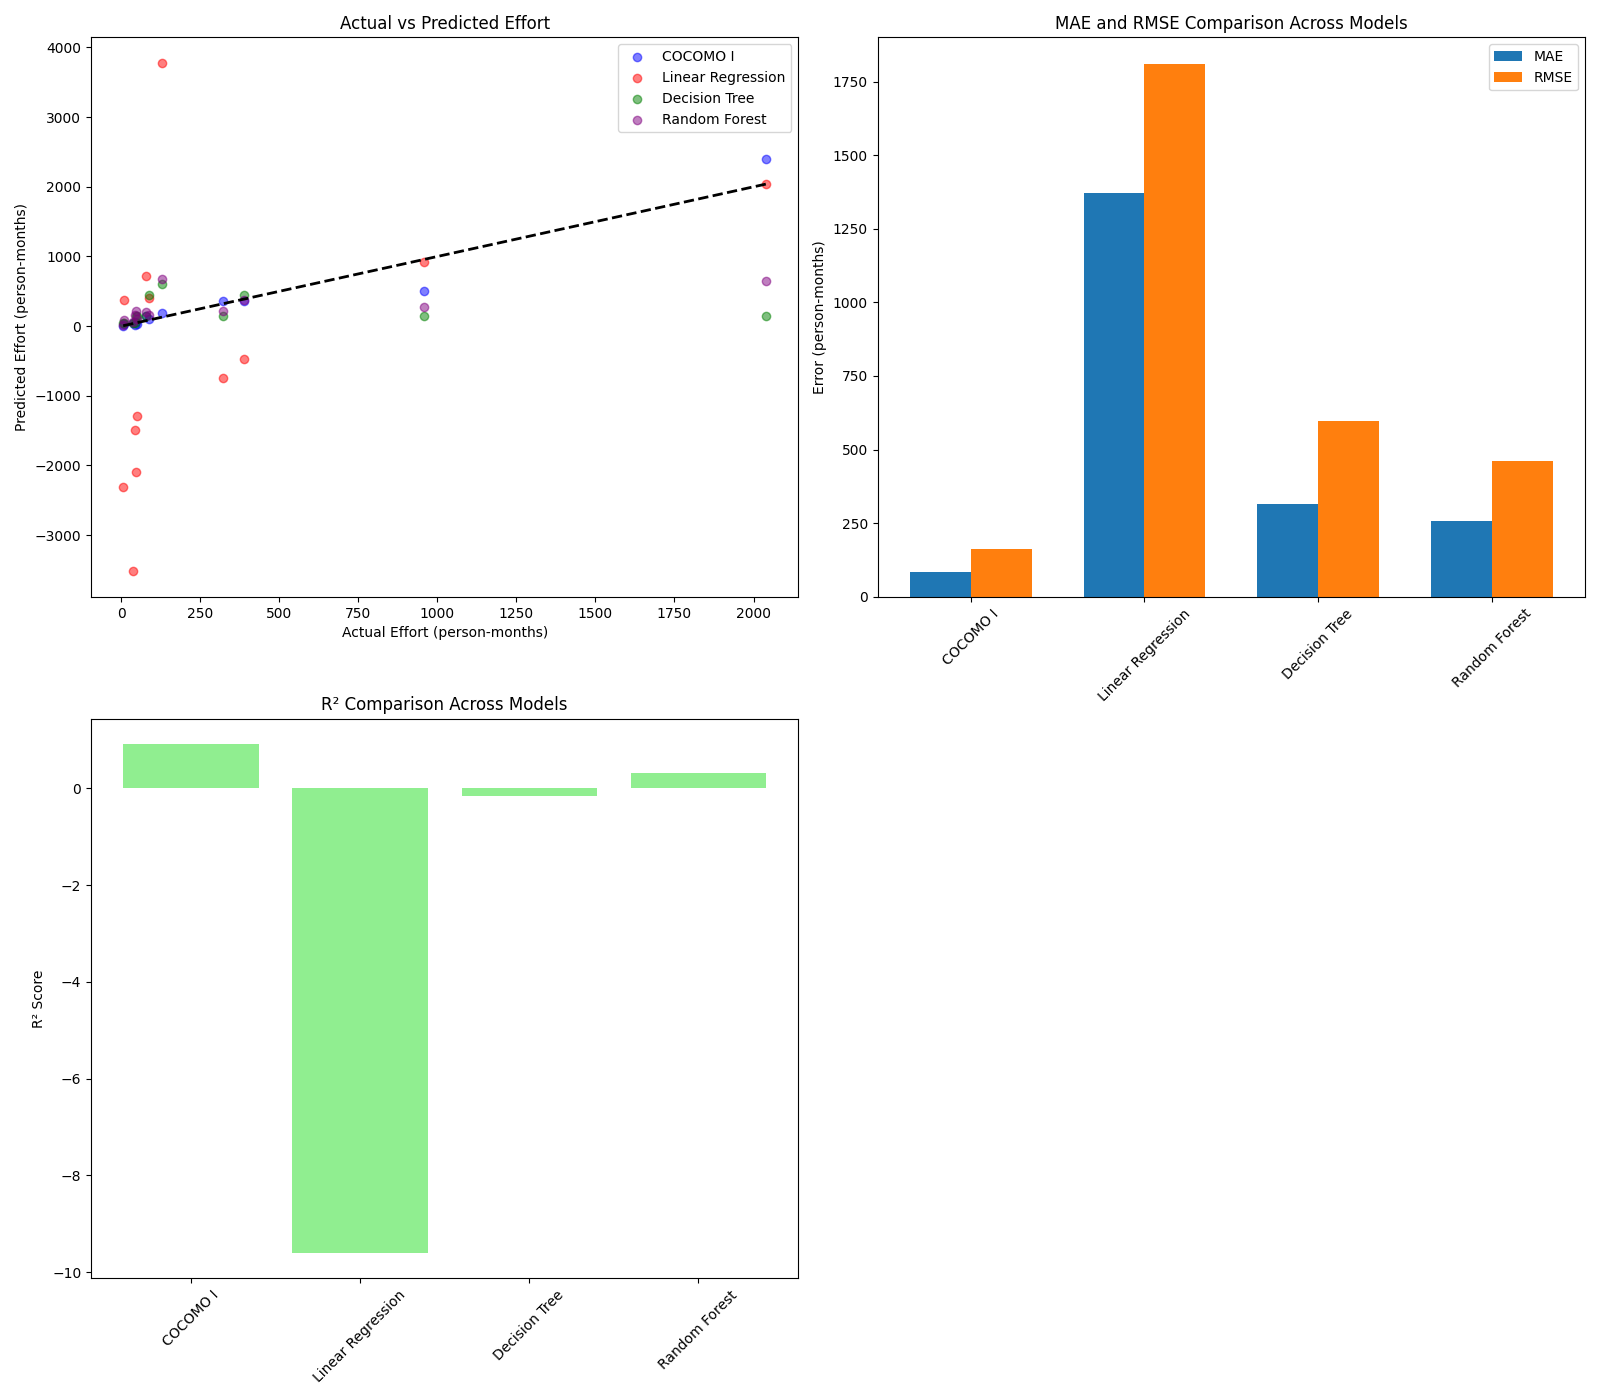
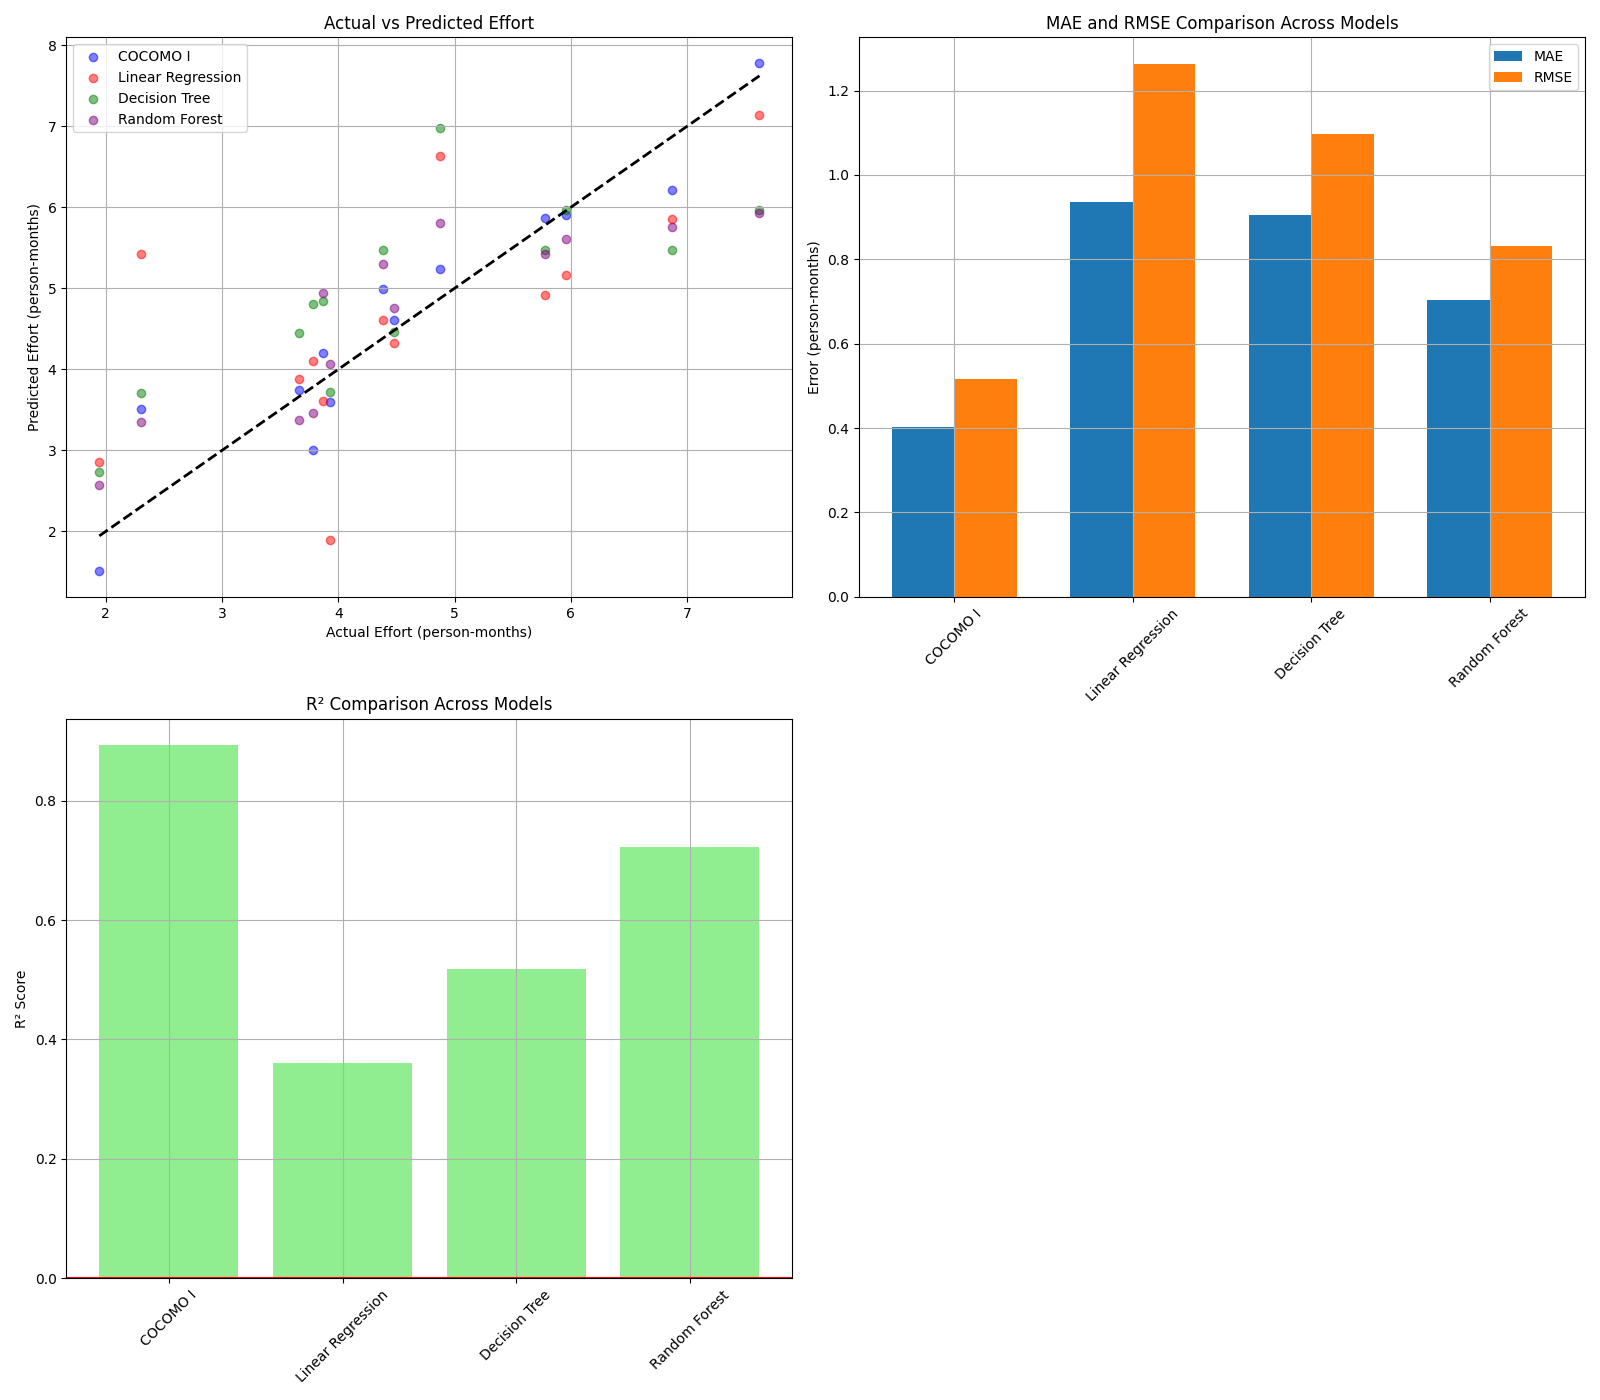
Normalize data for project 1

diff --git a/Project.py b/Project.py
@@ -39,43 +39,44 @@ y = data['actual']  # Actual effort is the target variable
 missing_values = X.isnull().sum()
 print(f"Missing values in each feature:\n{missing_values}")
 
-# Remove rows with missing values if any
-if missing_values.sum() > 0:
-    X = X.dropna()
-    y = y[X.index]
-    print(f"Number of samples after handling missing values: {X.shape[0]}")
-else:
-    print("No missing values found")
+# Handle missing values like in Project_2.py
+for col in X.columns:
+    if X[col].dtype == 'object':  # Categorical data
+        fill_value = X[col].mode()[0]
+    else:  # Numerical data
+        fill_value = X[col].median()
+    X[col].fillna(fill_value, inplace=True)
 
-import pandas as pd
-from sklearn.preprocessing import StandardScaler
+print(f"Number of samples after handling missing values: {X.shape[0]}")
 
 # 2.3 Chuẩn hóa dữ liệu
+print("\nStep 2.3: Feature scaling")
 scaler = StandardScaler()
-X_scaled = scaler.fit_transform(X)
+# Lưu trữ các cột cần chuẩn hóa
+numeric_features = X.select_dtypes(include=['float64', 'int64']).columns
+# Tạo bản sao để giữ lại phiên bản chưa chuẩn hóa
+X_unscaled = X.copy()
+# Chuẩn hóa dữ liệu
+X[numeric_features] = scaler.fit_transform(X[numeric_features])
+y_log = np.log1p(y)
 
-# Chuyển kết quả chuẩn hóa thành DataFrame có tên cột
-X_scaled_df = pd.DataFrame(X_scaled, columns=X.columns)
-
-# Tạo DataFrame hiển thị mean và std của từng cột
+# Hiển thị thông tin chuẩn hóa
 stats_df = pd.DataFrame({
-    "Feature": X.columns,
+    "Feature": numeric_features,
     "Mean": scaler.mean_,
     "Standard Deviation": scaler.scale_
 })
 
-# In bảng Mean và Std Dev với tên cột
 print("\nMean and Standard Deviation for each feature:")
-print(stats_df.to_string(index=False))  # Không hiển thị index
+print(stats_df.to_string(index=False))
 
 # In dữ liệu đã chuẩn hóa (5 dòng đầu)
 print("\nNormalized data (first 5 rows):")
-print(X_scaled_df.head())
-
+print(X.head())
 
 # 3. Chia dữ liệu thành tập huấn luyện và tập kiểm tra
 print("\nStep 3: Splitting data into training and testing sets")
-X_train, X_test, y_train, y_test = train_test_split(X_scaled_df, y, test_size=0.2, random_state=42)
+X_train, X_test, y_train, y_test = train_test_split(X, y_log, test_size=0.2, random_state=42)
 print(f"Training samples: {X_train.shape[0]}")
 print(f"Testing samples: {X_test.shape[0]}")
 
@@ -136,9 +137,9 @@ def calculate_cocomo_effort(row):
     kloc = row['loc'] 
     effort = a * (kloc ** b) * em
     
-    return effort
+    return np.log1p(effort)
 
-# Apply COCOMO calculation
+# Apply COCOMO calculation - sử dụng data gốc như trước
 data['effort_cocomo'] = data.apply(calculate_cocomo_effort, axis=1)
 
 # Get predictions for test set
@@ -148,11 +149,10 @@ cocomo_pred = data.loc[test_indices, 'effort_cocomo'].values
 # 6. Make predictions and evaluate models
 print("\nStep 6: Making predictions and evaluating models")
 
-# Predictions from ML models
+# Predictions from ML models - sử dụng dữ liệu đã chuẩn hóa
 lr_pred = lr_model.predict(X_test)
 dt_pred = dt_model.predict(X_test)
 rf_pred = rf_model.predict(X_test)
-
 
 # Evaluation function
 def evaluate_model(y_true, y_pred, model_name):
@@ -174,8 +174,6 @@ results['Linear Regression'] = evaluate_model(y_test, lr_pred, "Linear Regressio
 results['Decision Tree'] = evaluate_model(y_test, dt_pred, "Decision Tree")
 results['Random Forest'] = evaluate_model(y_test, rf_pred, "Random Forest")
 
-
-
 results_df = pd.DataFrame({
     'Actual': y_test,
     'COCOMO': cocomo_pred,
@@ -191,7 +189,6 @@ print("\nStep 7: Visualizing results")
 
 plt.figure(figsize=(16, 14))
 
-
 # 7.1 Scatter plot comparing actual vs predicted values
 plt.subplot(2, 2, 1)
 plt.scatter(y_test, cocomo_pred, label='COCOMO I', alpha=0.5, color='blue')
@@ -203,6 +200,7 @@ plt.xlabel('Actual Effort (person-months)')
 plt.ylabel('Predicted Effort (person-months)')
 plt.title('Actual vs Predicted Effort')
 plt.legend()
+plt.grid(True)
 
 # 7.2 Compare errors across models
 plt.subplot(2, 2, 2)
@@ -219,6 +217,7 @@ plt.xticks(x, models, rotation=45)
 plt.ylabel('Error (person-months)')
 plt.title('MAE and RMSE Comparison Across Models')
 plt.legend()
+plt.grid(True)
 
 # 7.3 R² comparison
 plt.subplot(2, 2, 3)
@@ -227,6 +226,8 @@ plt.bar(models, r2_values, color='lightgreen')
 plt.ylabel('R² Score')
 plt.title('R² Comparison Across Models')
 plt.xticks(rotation=45)
+plt.axhline(y=0, color='r', linestyle='-')
+plt.grid(True)
 
 # Save visualizations
 plt.figure(1)
